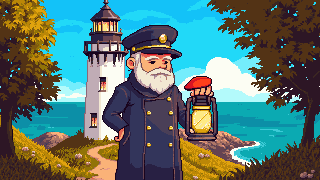
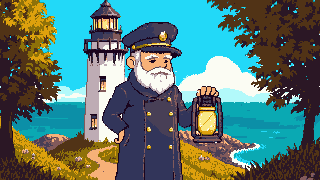
Retours /producer : pinces du crabe entières (getup, ko), balle retirée du throw de Maïa, béret retiré de la fin d'Itsasargi
Rotation des pièces recentrée sur l'axe du corps ; despeck_sheet.py --anim/--max ;
fin d'Itsasargi retouchée par Kontext.

Claude-Session: https://claude.ai/code/session_01LXFHAN75rdxEcdsy5wKHqu

diff --git a/tools/sprites/despeck_sheet.py b/tools/sprites/despeck_sheet.py
@@ -5,7 +5,9 @@ Une miette = composante détachée du perso de MAX_PX pixels au plus (reste
 de découpe des pièces). Les pixels d'accessoire (chistera, makila, rame…,
 tools/pf/acc_mask.py) ne sont jamais retirés : un accessoire peut être
 légitimement détaché de la main sur une image.
-Usage : despeck_sheet.py <id> [<id> …] [--dry]
+Usage : despeck_sheet.py <id> [<id> …] [--anim NOM] [--max PX] [--dry]
+  (--anim : une seule animation ; --max : taille maximale d'un morceau retiré,
+   ex. la balle orange que RD a dessinée dans le throw de Maïa)
 """
 import json
 import os
@@ -41,7 +43,7 @@ def comps(m):
     return out
 
 
-def despeck(fid, dry=False):
+def despeck(fid, dry=False, only=None, max_px=MAX_PX):
     d = os.path.join(ROOT, "assets", "fighters", fid)
     meta = json.load(open(os.path.join(d, "anims.json")))
     sheet = np.array(Image.open(os.path.join(d, "sheet.png")))
@@ -49,6 +51,8 @@ def despeck(fid, dry=False):
     acc = acc_mask.masks(fid)
     removed = 0
     for name, a in meta["anims"].items():
+        if only and name != only:
+            continue
         for i in range(a["frames"]):
             k = a["first"] + i
             y0, x0 = (k // cols) * c, (k % cols) * c
@@ -56,7 +60,7 @@ def despeck(fid, dry=False):
             cs = sorted(comps(f > 0), key=len)
             m = acc.get(name, [None] * a["frames"])[i] if name in acc else None
             for pts in cs[:-1]:
-                if len(pts) > MAX_PX:
+                if len(pts) > max_px:
                     continue
                 if m is not None and m.shape == f.shape and any(m[p] for p in pts):
                     continue
@@ -69,5 +73,8 @@ def despeck(fid, dry=False):
 
 
 if __name__ == "__main__":
-    for fid in [a for a in sys.argv[1:] if not a.startswith("--")]:
-        print(fid, despeck(fid, "--dry" in sys.argv), "px retirés")
+    opt = lambda k: sys.argv[sys.argv.index(k) + 1] if k in sys.argv else None
+    vals = {opt("--anim"), opt("--max")}
+    only, mx = opt("--anim"), int(opt("--max") or MAX_PX)
+    for fid in [a for a in sys.argv[1:] if not a.startswith("--") and a not in vals]:
+        print(fid, despeck(fid, "--dry" in sys.argv, only, mx), "px retirés")

diff --git a/tools/pf/pieces.py b/tools/pf/pieces.py
@@ -103,6 +103,15 @@ class Rig:
         if tilt:
             c = tuple(v + CELL for v in pose.get("tilt_pivot", (77, self.ground)))
             big = big.rotate(-tilt, resample=Image.NEAREST, center=c)
+            # recentré sur l'axe du corps : la rotation déporte le perso (pinces coupées au bord)
+            bb = big.getbbox()
+            if bb:
+                want = CELL + self.pivot["body"][0] + g.get("dx", 0)
+                shift = round(want - (bb[0] + bb[2]) / 2)
+                shift = max(CELL - bb[0] - CELL, min(shift, 2 * CELL - bb[2]))
+                moved = Image.new("RGBA", big.size)
+                moved.paste(big, (shift, 0), big)
+                big = moved
             feet = big   # retourné : c'est le bas du perso entier qui touche le sol
         fb = feet.getbbox() or big.getbbox()
         # pieds au sol, puis élévation ; abscisse : celle de la pose (pas de recentrage)

diff --git a/tools/pf/choreo/karramarro.py b/tools/pf/choreo/karramarro.py
@@ -61,7 +61,7 @@ def walk(n, amp=16, lift=5, low=0.0, cycles=1, lean=0):
     return keys
 
 
-def spin(n, turns=1.0, peak=45):
+def spin(n, turns=1.0, peak=14):
     keys = {}
     for i in range(n):
         u = i / (n - 1)
@@ -75,7 +75,7 @@ def knockdown():
     seq = [(0, P()), (-20, P(pf=dict(rot=-25), pb=dict(rot=-20))), (-60, P(pf=dict(rot=-35), pb=dict(rot=-30))),
            (-120, P(pf=dict(rot=-30), pb=dict(rot=-25))), (-180, P(lb=dict(rot=12), lf=dict(rot=-12))),
            (-180, P(lb=dict(rot=-12), lf=dict(rot=12), pf=dict(rot=15), pb=dict(rot=-15)))]
-    return {i: merge(p, P(tilt=t, tilt_pivot=(60, 120), all=dict(dx=-3 * min(i, 3)))) for i, (t, p) in enumerate(seq)}
+    return {i: merge(p, P(tilt=t, tilt_pivot=(60, 120))) for i, (t, p) in enumerate(seq)}
 
 
 MOVES = {
